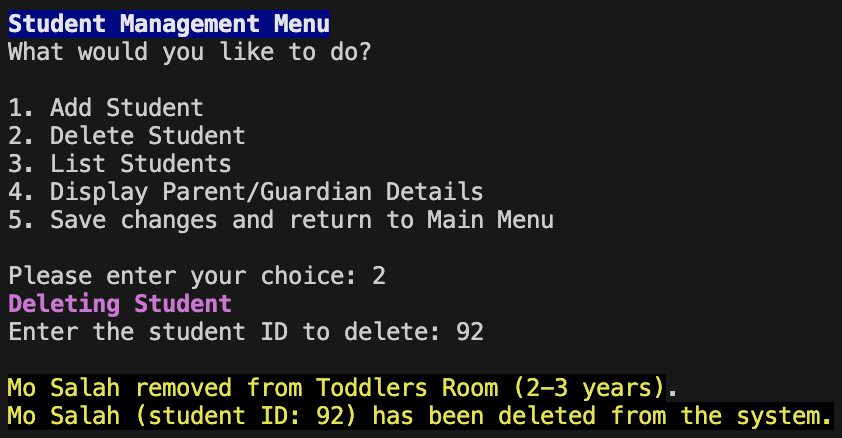
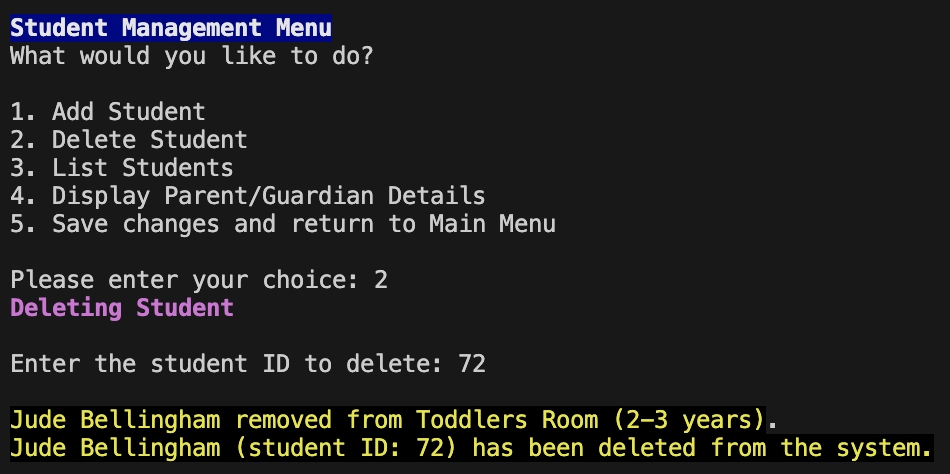
update screenshots for add menu and delete student

diff --git a/functions/kitchen_functions.py b/functions/kitchen_functions.py
@@ -1,5 +1,5 @@
 from colored import Style
-from constants import color5
+from constants import color3, color4, color5
 
 def add_menu_for_day(kitchen):
     """Prompt the user to add or update the menu for breakfast, lunch, and afternoon tea for a specific day."""
@@ -27,7 +27,7 @@ def add_menu_for_day(kitchen):
             raise ValueError(f"{color5}Please enter a number between 1 and 5 (weekdays only).{Style.reset}\n")
         day = day_map[day]
 
-        print(f"Adding menu for Week {week}, Day: {day}")
+        print(f"\n{color4}Adding/updating menu for Week {week}, Day: {day}{Style.reset}\n")
 
     except ValueError as error:
         print(f"{color5}{error}{Style.reset}")
@@ -65,7 +65,7 @@ def add_menu_for_day(kitchen):
     kitchen.menu[week_str][day]["Lunch"] = lunch
     kitchen.menu[week_str][day]["Afternoon Tea"] = afternoon_tea
 
-    print(f"Menu for {day} in Week {week} has been updated.\n")
+    print(f"\n{color3}Menu for {day} in Week {week} has been updated.{Style.reset}")
 
 def list_menu_for_week(kitchen):
     try:

diff --git a/constants.py b/constants.py
@@ -3,6 +3,6 @@ from colored import Style, Fore, Back
 # Declaring variables for color palette
 color1: str = f'{Style.underline}{Style.BOLD}{Fore.dark_green}{Back.spring_green_4}' # Color for welcome header and exit app
 color2: str = f"{Style.BOLD}{Fore.white}{Back.dark_blue}"                   # Color for sub menu
-color3: str = f"{Fore.yellow}{Back.black}"                                  # Color for sub menu headers
+color3: str = f"{Fore.yellow}{Back.black}"                                  # Color for sub menu headers and confirmations
 color4: str = f"{Style.BOLD}{Fore.magenta}"                                 # color for other headers
 color5: str = f"{Fore.red}{Back.black}"                                     # Color for errors/exceptions raised

diff --git a/main.py b/main.py
@@ -93,7 +93,7 @@ while choice != "3":  # Main menu loop, "3" is exit
                 print(f"{color4}Adding Student{Style.reset}\n")
                 add_student(students, classrooms)
             elif student_choice == "2":
-                print(f"{color4}Deleting Student{Style.reset}")
+                print(f"{color4}Deleting Student{Style.reset}\n")
                 delete_student(students, classrooms)
             elif student_choice == "3":
                 print(f"\n{color3}Students list{Style.reset}") 

diff --git a/readme.md b/readme.md
@@ -137,15 +137,15 @@ Choosing option 2 will lead you to the kitchen Management Menu
 You will be prompted one question at a time asking for the following input:
 
 - Enter week number: Enter a number (inclusive of) between 1 to 52 to indicate which week of the year to add menu to.
-
 - Enter the day of the week: Enter number only. i.e. (1 = Monday, 2 = Tuesday...5 = Friday)
 Once successful, you will be prompted for:
-
 - Enter name of breakfast dish:
 - Enter name of lunch dish:
 - Enter name of afternoon tea dish:   
 
-Upon successfully entering the information above, you will receive a confirmation stating menu for selected day in selected week is UPDATED.
+![screenshot for display add/update kitchen menu](docs/screenshots/add_kitchen.png)
+
+Upon successfully entering the information above, you will receive a confirmation stating menu for selected day in selected week is updated.
 
 ### Choice 2 - Delete menu for the day
 
